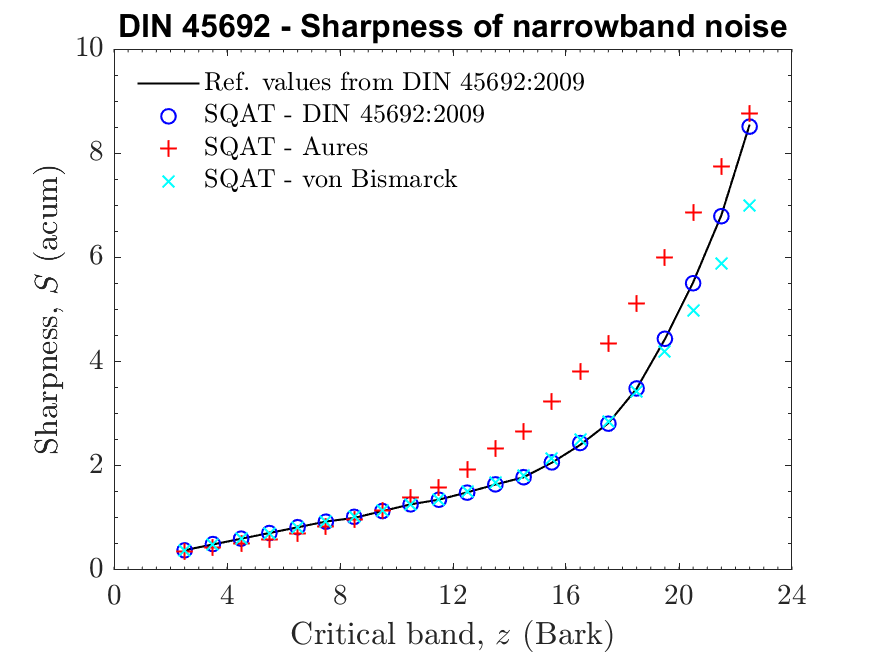
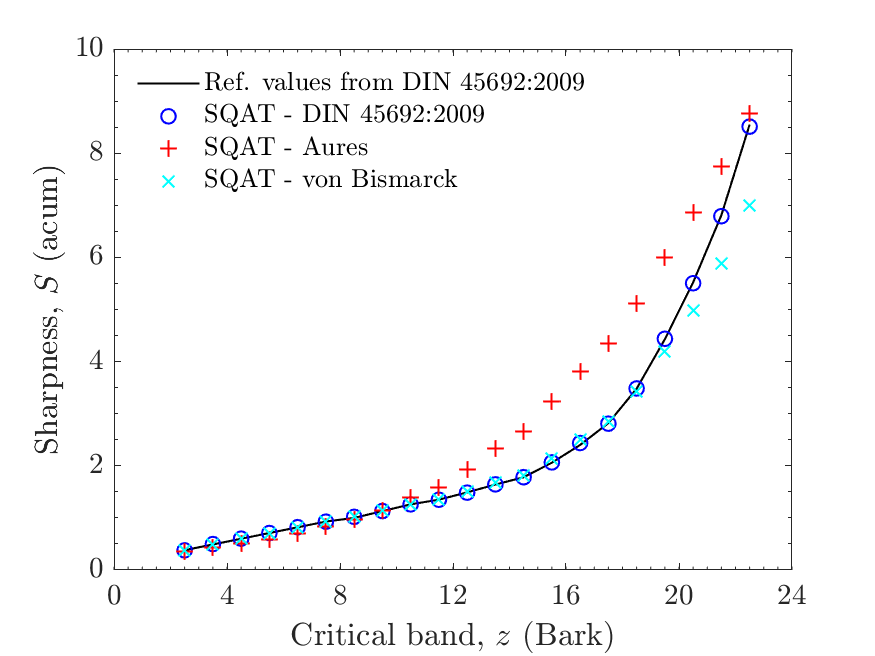
remove title from sharpness validation figures

diff --git a/validation/Sharpness_DIN45692/validation_Sharpness_DIN45692_narrowband_and_broadband_signals.m b/validation/Sharpness_DIN45692/validation_Sharpness_DIN45692_narrowband_and_broadband_signals.m
@@ -14,18 +14,16 @@
 %   OUT = Loudness_ISO532_1(insig, fs, field, method, time_skip, show)
 %   type <help Loudness_ISO532_1> for more info
 %
-% Author: Gil Felix Greco, Braunschweig 01.03.2023 
-%
 % In order to run this code, the user needs to download the dataset of 
 %  sound files from zenodo (https://doi.org/10.5281/zenodo.7933206).
 %  The obtained folder called `validation_SQAT_v1_0` has to be included in 
 %  the `sound_files` folder of the toolbox. 
 %
-% This code is part of SQAT v1.0, released 14.05.2023
+% Author: Gil Felix Greco, Braunschweig 01.03.2023 
 %%%%%%%%%%%%%%%%%%%%%%%%%%%%%%%%%%%%%%%%%%%%%%%%%%%%%%%%%%%%%%%%%%%%%%%%%%%
 clear all; close all; clc;
 
-save_figs=0; % save figure flag
+save_figs = 0; % save figure flag
 
 %% Sharpness of narrowband test sounds
 
@@ -228,7 +226,7 @@ plot(bark_narrowband,vertcat(s_narrow.Sharpness),'ob','Linewidth',1,'MarkerSize'
 plot(bark_narrowband,vertcat(s_narrow_aures.Sharpness),'+r','Linewidth',1,'MarkerSize',8);
 plot(bark_narrowband,vertcat(s_narrow_bismarck.Sharpness),'xc','Linewidth',1,'MarkerSize',8);
 
-title('DIN 45692 - Sharpness of narrowband noise');
+% title('DIN 45692 - Sharpness of narrowband noise');
 
 legend('Ref. values from DIN 45692:2009','SQAT - DIN 45692:2009','SQAT - Aures','SQAT - von Bismarck','Location','NorthWest','Interpreter','Latex');
 legend boxoff
@@ -271,12 +269,12 @@ plot(bark_broadband,vertcat(s_broad.Sharpness),'ob','Linewidth',1,'MarkerSize',7
 plot(bark_broadband,vertcat(s_broad_aures.Sharpness),'+r','Linewidth',1,'MarkerSize',8);
 plot(bark_broadband,vertcat(s_broad_bismarck.Sharpness),'xc','Linewidth',1,'MarkerSize',8);
 
-title('DIN 45692 - Sharpness of broadband noise');
+% title('DIN 45692 - Sharpness of broadband noise');
 
 legend('Ref. values from DIN 45692:2009','SQAT - DIN 45692:2009','SQAT - Aures','SQAT - von Bismarck','Location','NorthWest','Interpreter','Latex');
 legend boxoff
  
- legend boxoff
+legend boxoff
  
 grid off
 axis([0 24 0 10]);
